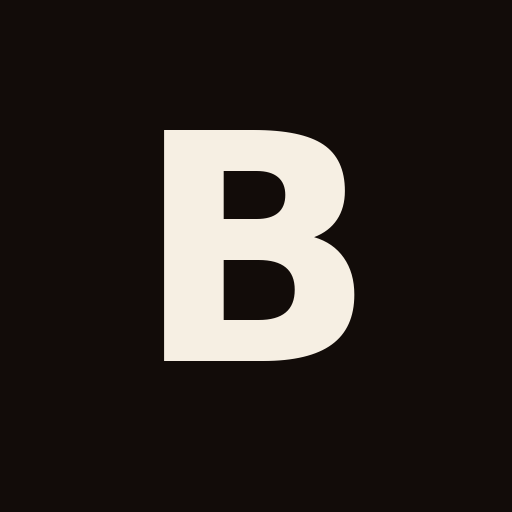
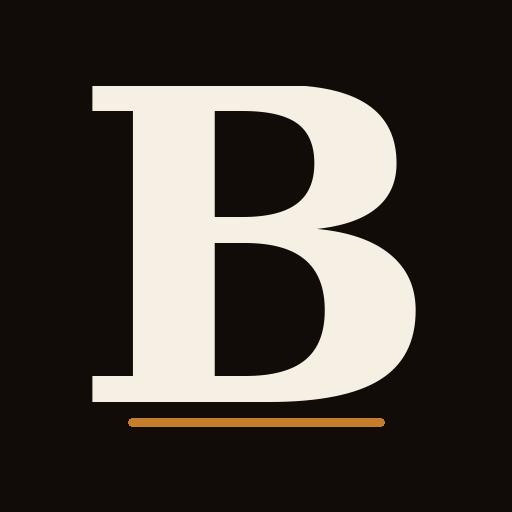
Bruma: pantalla del personal instalable en el teléfono
Manifiesto, íconos y service worker de la carcasa. El script y la clave no se guardan en el caché.

Changed region(s): [[0.1562, 0.1562, 0.8125, 0.8438]]

diff --git a/demo-cerveceria/admin.html b/demo-cerveceria/admin.html
@@ -3,14 +3,15 @@
 <head>
     <meta charset="UTF-8">
     <meta name="viewport" content="width=device-width, initial-scale=1.0">
-    <title>Bruma</title>
+    <title>Bruma Personal</title>
     <meta name="description" content="Pantalla del personal de Cervecería Bruma.">
     <meta name="theme-color" content="#3d2918">
     <meta name="apple-mobile-web-app-capable" content="yes">
     <meta name="mobile-web-app-capable" content="yes">
-    <meta name="apple-mobile-web-app-title" content="Bruma">
-    <link rel="manifest" href="admin.webmanifest">
-    <link rel="apple-touch-icon" href="img/admin-icono-192.png">
+    <meta name="apple-mobile-web-app-title" content="Bruma Personal">
+    <meta name="apple-mobile-web-app-status-bar-style" content="black">
+    <link rel="manifest" href="manifest.webmanifest">
+    <link rel="apple-touch-icon" href="img/apple-touch-icon.png">
     <link rel="icon" href="img/admin-icono-192.png">
     <link rel="preconnect" href="https://fonts.googleapis.com">
     <link rel="preconnect" href="https://fonts.gstatic.com" crossorigin>
@@ -216,6 +217,27 @@
         .btn-gris { background: #8a847c; color: #1a120e; }
 
         .entrar { margin-top: 4px; }
+
+        .instalar {
+            margin-top: 14px;
+            text-align: center;
+            color: var(--cream-soft);
+            font-size: 0.88rem;
+            font-weight: 500;
+            line-height: 1.4;
+        }
+
+        .instalar button {
+            border: 0;
+            background: none;
+            color: var(--cream-soft);
+            font-size: 0.88rem;
+            font-weight: 600;
+            text-decoration: underline;
+            text-underline-offset: 3px;
+            min-height: 44px;
+            padding: 8px;
+        }
 
         .volver,
         .cambiar {
@@ -438,6 +460,10 @@
             <button class="btn btn-wa entrar" type="submit">Entrar</button>
             <p class="aviso" id="clave-espera" hidden>Un momento…</p>
             <p class="aviso" id="clave-error" hidden>Clave incorrecta</p>
+            <p class="instalar" id="instalar" hidden>
+                <button type="button" id="instalar-boton">Instalar en el teléfono</button>
+            </p>
+            <p class="instalar" id="instalar-iphone" hidden>En iPhone: Compartir → Agregar a pantalla de inicio.</p>
         </form>
 
         <section id="vista-inicio" data-vista="inicio" hidden>
@@ -511,5 +537,6 @@
     <script src="js/mesas.js"></script>
     <script src="js/ocupadas.js"></script>
     <script src="js/admin-ui.js"></script>
+    <script src="js/instalar.js"></script>
 </body>
 </html>

diff --git a/demo-cerveceria/sw.js b/demo-cerveceria/sw.js
@@ -1,0 +1,73 @@
+/* Carcasa de Bruma Personal.
+   Al cambiar el html, el css, el js o los íconos, sube el número:
+   bruma-personal-v2. Así el teléfono toma la versión nueva al abrirla.
+   No guarda la clave ni las respuestas del script. */
+var CACHE = "bruma-personal-v1";
+
+var CARCASA = [
+    "admin.html",
+    "manifest.webmanifest",
+    "js/instalar.js",
+    "js/reservas-url.js",
+    "js/llamados.js",
+    "js/admin-api.js",
+    "js/sala-llamados.js",
+    "js/mesas.js",
+    "js/ocupadas.js",
+    "js/admin-ui.js",
+    "img/admin-icono-192.png",
+    "img/admin-icono-512.png",
+    "img/admin-icono-maskable-192.png",
+    "img/admin-icono-maskable-512.png",
+    "img/apple-touch-icon.png"
+];
+
+self.addEventListener("install", function (event) {
+    event.waitUntil(
+        caches.open(CACHE).then(function (cache) {
+            return cache.addAll(CARCASA);
+        }).then(function () {
+            return self.skipWaiting();
+        })
+    );
+});
+
+self.addEventListener("activate", function (event) {
+    event.waitUntil(
+        caches.keys().then(function (nombres) {
+            return Promise.all(nombres.map(function (nombre) {
+                if (nombre !== CACHE) return caches.delete(nombre);
+            }));
+        }).then(function () {
+            return self.clients.claim();
+        })
+    );
+});
+
+function esScript(url) {
+    return url.hostname === "script.google.com" ||
+        url.hostname === "script.googleusercontent.com";
+}
+
+self.addEventListener("fetch", function (event) {
+    var pedido = event.request;
+    if (pedido.method !== "GET") return;
+
+    var url;
+    try { url = new URL(pedido.url); }
+    catch (error) { return; }
+
+    if (esScript(url)) return;
+    if (url.origin !== self.location.origin) return;
+
+    var enCarcasa = CARCASA.some(function (pieza) {
+        return url.pathname.endsWith("/" + pieza);
+    });
+    if (!enCarcasa) return;
+
+    event.respondWith(
+        caches.match(pedido).then(function (guardado) {
+            return guardado || fetch(pedido);
+        })
+    );
+});

diff --git a/demo-cerveceria/js/instalar.js b/demo-cerveceria/js/instalar.js
@@ -1,0 +1,38 @@
+/* Aviso para dejar Bruma Personal en la pantalla de inicio.
+   No lee ni guarda la clave. */
+(function () {
+    var bloque = document.getElementById("instalar");
+    var boton = document.getElementById("instalar-boton");
+    var iphone = document.getElementById("instalar-iphone");
+    var diferido = null;
+
+    if ("serviceWorker" in navigator) {
+        navigator.serviceWorker.register("sw.js").catch(function () {});
+    }
+
+    var sola = window.matchMedia("(display-mode: standalone)").matches ||
+        window.navigator.standalone === true;
+    if (sola) return;
+
+    var ua = navigator.userAgent || "";
+    var esIos = /iphone|ipad|ipod/i.test(ua) ||
+        (navigator.platform === "MacIntel" && navigator.maxTouchPoints > 1);
+    if (esIos && iphone) iphone.hidden = false;
+
+    window.addEventListener("beforeinstallprompt", function (event) {
+        event.preventDefault();
+        diferido = event;
+        if (bloque) bloque.hidden = false;
+    });
+
+    if (boton) {
+        boton.addEventListener("click", function () {
+            if (!diferido) return;
+            diferido.prompt();
+            diferido.userChoice.then(function () {
+                diferido = null;
+                if (bloque) bloque.hidden = true;
+            });
+        });
+    }
+})();

diff --git a/demo-cerveceria/README.md b/demo-cerveceria/README.md
@@ -501,8 +501,26 @@ sección y no aparece «Ejemplo».
 Después de la clave hay tres botones: Reservas, Llamados y Carta.
 En cada uno hay «Volver».
 
-Para dejarla en la pantalla de inicio: abrir `admin.html` en el
-teléfono, menú del navegador, «Agregar a inicio». El ícono es una B.
+### Instalar en el teléfono
+
+En Android, abre `admin.html` en Chrome. Si el navegador lo permite,
+debajo de «Entrar» aparece «Instalar en el teléfono». El nombre es
+Bruma Personal y el ícono es una B. Se abre sola, sin la barra del
+navegador.
+
+En iPhone, ábrela en Safari. Toca Compartir y luego «Agregar a
+pantalla de inicio». En la página se lee esa misma línea.
+
+La carcasa (la página, su código y los íconos) queda en el teléfono.
+Las llamadas al script no se guardan: salen siempre a la red. La clave
+tampoco queda en esa carcasa.
+
+Cuando se fusiona un cambio de la carcasa, sube el número del caché en
+`sw.js` (`bruma-personal-v1`). Al volver a abrir la app, el teléfono
+toma la versión nueva. No hace falta instalarla otra vez.
+
+Las rutas son relativas a la carpeta `demo-cerveceria/`. En GitHub
+Pages quedan bajo `/Pagos1/`.
 
 ### Cómo probarla
 
